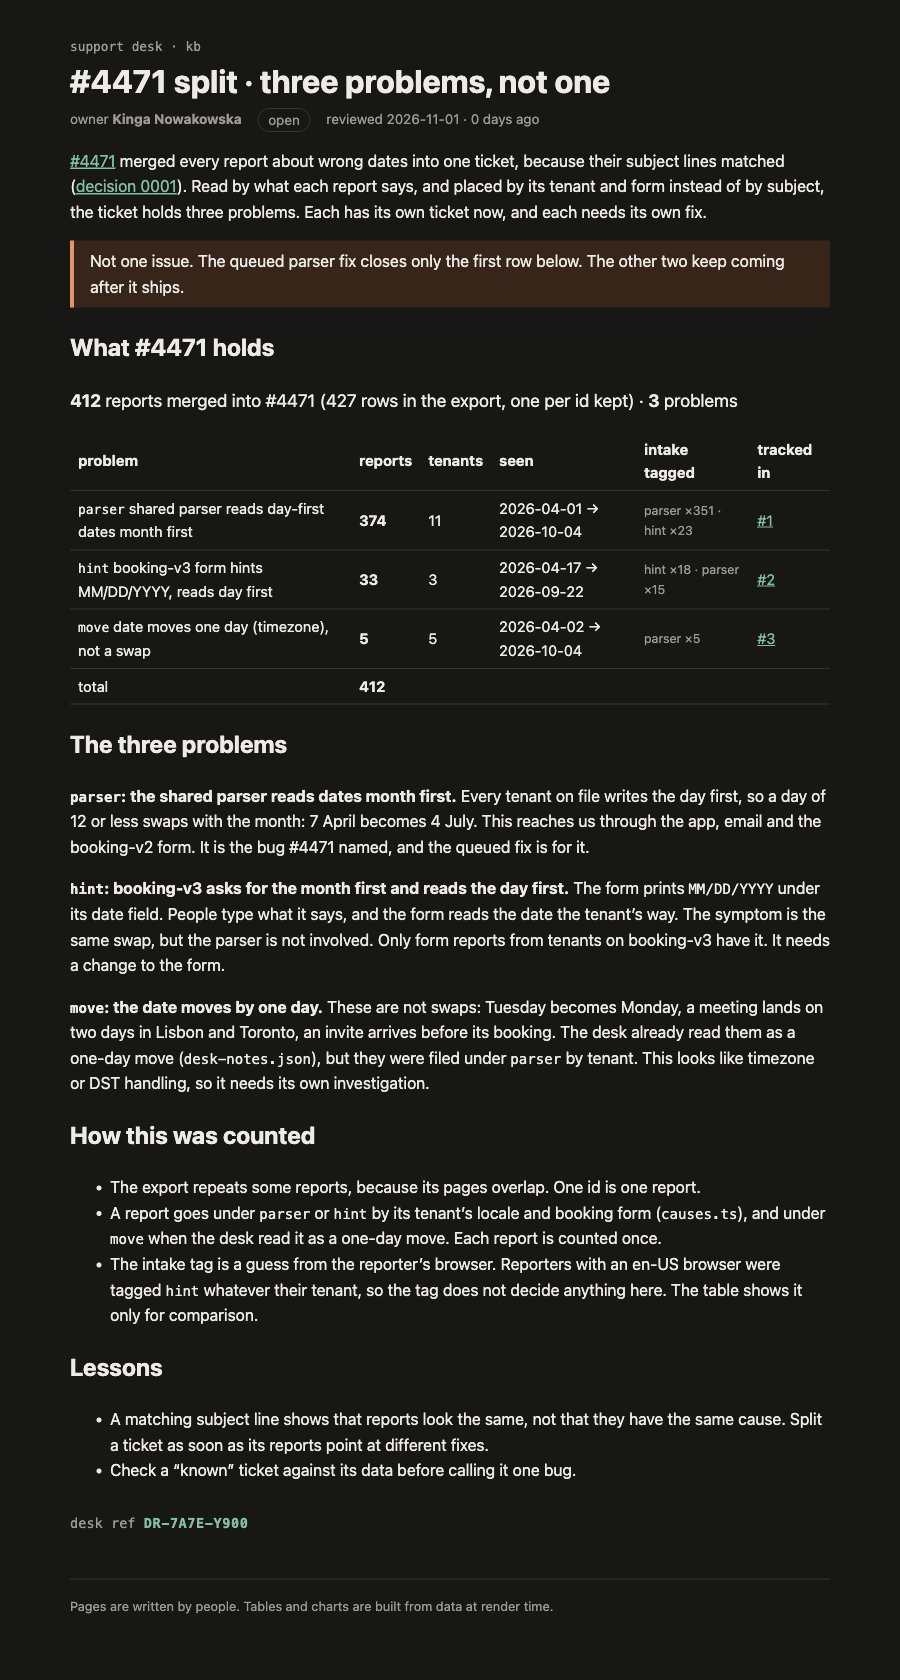
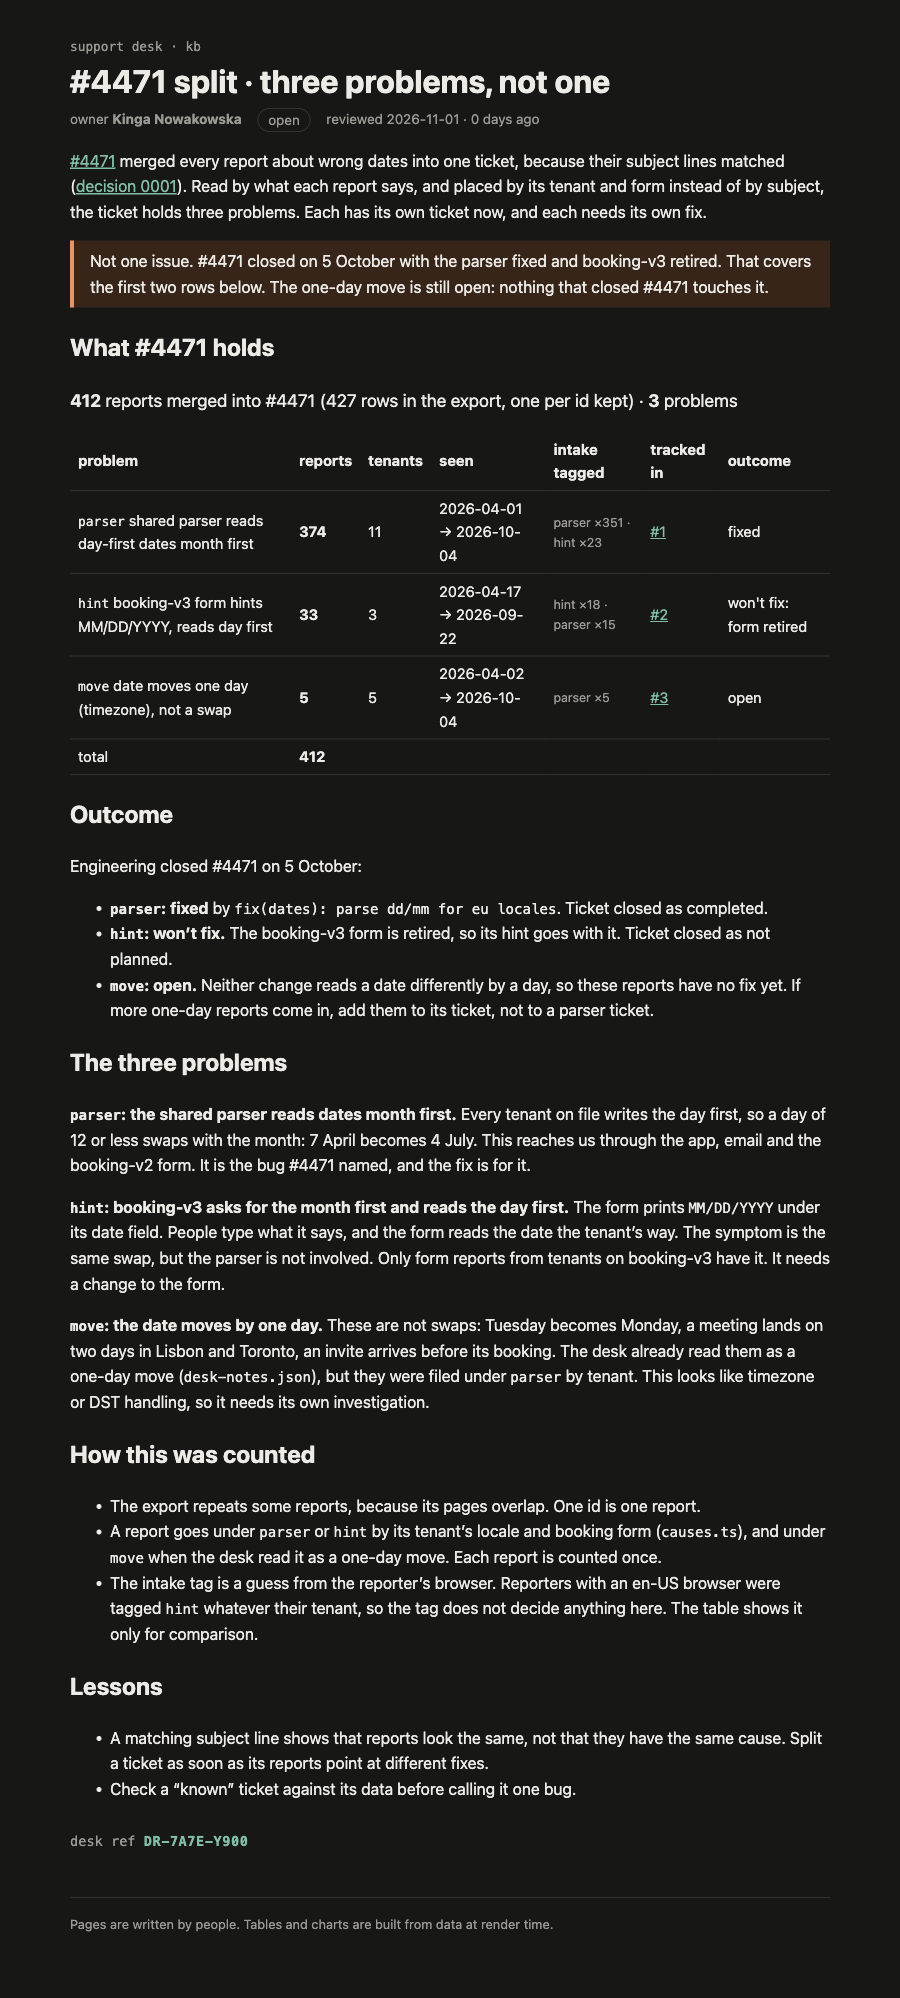
kb: record #4471 outcome (parser fixed, booking-v3 retired, one-day move open)

Changed region(s): [[0.0622, 0.0, 0.9333, 0.9286], [0.4044, 0.3405, 0.4356, 0.3714]]

diff --git a/rendered/4471-split.html b/rendered/4471-split.html
@@ -18,10 +18,11 @@
 </style></head><body><div style="display: contents"><!--[--><!--[0--><!--[--><!--[--><div class="kb svelte-e2jw2j"><header><a class="crumb svelte-e2jw2j" href="/kb">support desk · kb</a> <h1 class="svelte-e2jw2j">#4471 split · three problems, not one</h1> <p class="meta svelte-e2jw2j"><span>owner <b>Kinga Nowakowska</b></span> <span class="status open svelte-e2jw2j">open</span> <span class="svelte-e2jw2j">reviewed 2026-11-01 · 0 days ago</span></p></header> <!--[-1--><!--]--> <main><p><a href="/kb/incidents/4471">#4471</a> merged every report about wrong dates into one ticket, because their
 subject lines matched (<a href="/kb/decisions/0001-dedupe-by-subject">decision 0001</a>). Read by what each
 report says, and placed by its tenant and form instead of by subject, the ticket holds three
-problems. Each has its own ticket now, and each needs its own fix.</p> <aside class="warn svelte-17bri61"><!---->Not one issue. The queued parser fix closes only the first row below. The other two keep coming
-after it ships.<!----></aside><!----> <h2>What #4471 holds</h2> <p class="sum svelte-xskqqx"><strong>412</strong> reports merged into #4471 (427 rows in the export, one per id kept) · <strong>3</strong> problems</p> <table><thead><tr><th>problem</th><th>reports</th><th>tenants</th><th>seen</th><th>intake tagged</th><th>tracked in</th></tr></thead><tbody><!--[--><tr><td><code>parser</code> shared parser reads day-first dates month first</td><td><strong>374</strong></td><td>11</td><td>2026-04-01 → 2026-10-04</td><td class="tags svelte-xskqqx">parser ×351 · hint ×23</td><td><!--[0--><a href="https://github.com/kNowakowska/support-kb-4471/issues/1">#1</a><!--]--></td></tr><tr><td><code>hint</code> booking-v3 form hints MM/DD/YYYY, reads day first</td><td><strong>33</strong></td><td>3</td><td>2026-04-17 → 2026-09-22</td><td class="tags svelte-xskqqx">hint ×18 · parser ×15</td><td><!--[0--><a href="https://github.com/kNowakowska/support-kb-4471/issues/2">#2</a><!--]--></td></tr><tr><td><code>move</code> date moves one day (timezone), not a swap</td><td><strong>5</strong></td><td>5</td><td>2026-04-02 → 2026-10-04</td><td class="tags svelte-xskqqx">parser ×5</td><td><!--[0--><a href="https://github.com/kNowakowska/support-kb-4471/issues/3">#3</a><!--]--></td></tr><!--]--></tbody><tfoot><tr><td>total</td><td><strong>412</strong></td><td colspan="4"></td></tr></tfoot></table><!----> <h2>The three problems</h2> <p><strong><code>parser</code>: the shared parser reads dates month first.</strong> Every tenant on file writes the day
+problems. Each has its own ticket now, and each needs its own fix.</p> <aside class="warn svelte-17bri61"><!---->Not one issue. #4471 closed on 5 October with the parser fixed and booking-v3 retired. That
+covers the first two rows below. The one-day move is still open: nothing that closed #4471 touches it.<!----></aside><!----> <h2>What #4471 holds</h2> <p class="sum svelte-xskqqx"><strong>412</strong> reports merged into #4471 (427 rows in the export, one per id kept) · <strong>3</strong> problems</p> <table><thead><tr><th>problem</th><th>reports</th><th>tenants</th><th>seen</th><th>intake tagged</th><th>tracked in</th><th>outcome</th></tr></thead><tbody><!--[--><tr><td><code>parser</code> shared parser reads day-first dates month first</td><td><strong>374</strong></td><td>11</td><td>2026-04-01 → 2026-10-04</td><td class="tags svelte-xskqqx">parser ×351 · hint ×23</td><td><!--[0--><a href="https://github.com/kNowakowska/support-kb-4471/issues/1">#1</a><!--]--></td><td>fixed</td></tr><tr><td><code>hint</code> booking-v3 form hints MM/DD/YYYY, reads day first</td><td><strong>33</strong></td><td>3</td><td>2026-04-17 → 2026-09-22</td><td class="tags svelte-xskqqx">hint ×18 · parser ×15</td><td><!--[0--><a href="https://github.com/kNowakowska/support-kb-4471/issues/2">#2</a><!--]--></td><td>won't fix: form retired</td></tr><tr><td><code>move</code> date moves one day (timezone), not a swap</td><td><strong>5</strong></td><td>5</td><td>2026-04-02 → 2026-10-04</td><td class="tags svelte-xskqqx">parser ×5</td><td><!--[0--><a href="https://github.com/kNowakowska/support-kb-4471/issues/3">#3</a><!--]--></td><td>open</td></tr><!--]--></tbody><tfoot><tr><td>total</td><td><strong>412</strong></td><td colspan="5"></td></tr></tfoot></table><!----> <h2>Outcome</h2> <p>Engineering closed #4471 on 5 October:</p> <ul><li><strong><code>parser</code>: fixed</strong> by <code>fix(dates): parse dd/mm for eu locales</code>. Ticket closed as completed.</li> <li><strong><code>hint</code>: won’t fix.</strong> The booking-v3 form is retired, so its hint goes with it. Ticket closed as not planned.</li> <li><strong><code>move</code>: open.</strong> Neither change reads a date differently by a day, so these reports have no fix yet.
+If more one-day reports come in, add them to its ticket, not to a parser ticket.</li></ul> <h2>The three problems</h2> <p><strong><code>parser</code>: the shared parser reads dates month first.</strong> Every tenant on file writes the day
 first, so a day of 12 or less swaps with the month: 7 April becomes 4 July. This reaches us
-through the app, email and the booking-v2 form. It is the bug #4471 named, and the queued fix is for it.</p> <p><strong><code>hint</code>: booking-v3 asks for the month first and reads the day first.</strong> The form prints <code>MM/DD/YYYY</code> under its date field. People type what it says, and the form reads the date the
+through the app, email and the booking-v2 form. It is the bug #4471 named, and the fix is for it.</p> <p><strong><code>hint</code>: booking-v3 asks for the month first and reads the day first.</strong> The form prints <code>MM/DD/YYYY</code> under its date field. People type what it says, and the form reads the date the
 tenant’s way. The symptom is the same swap, but the parser is not involved. Only form reports from
 tenants on booking-v3 have it. It needs a change to the form.</p> <p><strong><code>move</code>: the date moves by one day.</strong> These are not swaps: Tuesday becomes Monday, a meeting
 lands on two days in Lisbon and Toronto, an invite arrives before its booking. The desk already

diff --git a/src/lib/kb/SplitTable.svelte b/src/lib/kb/SplitTable.svelte
@@ -6,7 +6,8 @@
   import { splitTicket, type Problem } from '#lib/kb/split';
 
   // issues: where each problem is now tracked, problem → issue url.
-  let { ticket, issues = {} }: { ticket: number; issues?: Partial<Record<Problem, string>> } = $props();
+  // outcome: what engineering decided per problem, problem → words.
+  let { ticket, issues = {}, outcome = {} }: { ticket: number; issues?: Partial<Record<Problem, string>>; outcome?: Partial<Record<Problem, string>> } = $props();
 
   const LABEL: Record<Problem, string> = {
     parser: 'shared parser reads day-first dates month first',
@@ -32,7 +33,7 @@
 
 <table>
   <thead>
-    <tr><th>problem</th><th>reports</th><th>tenants</th><th>seen</th><th>intake tagged</th><th>tracked in</th></tr>
+    <tr><th>problem</th><th>reports</th><th>tenants</th><th>seen</th><th>intake tagged</th><th>tracked in</th><th>outcome</th></tr>
   </thead>
   <tbody>
     {#each split.groups as g (g.problem)}
@@ -43,11 +44,12 @@
         <td>{g.firstSeen} → {g.lastSeen}</td>
         <td class="tags">{tags(g.taggedAs)}</td>
         <td>{#if issues[g.problem]}<a href={issues[g.problem]}>{issueNo(issues[g.problem]!)}</a>{:else}<span class="none">no ticket</span>{/if}</td>
+        <td>{outcome[g.problem] ?? 'open'}</td>
       </tr>
     {/each}
   </tbody>
   <tfoot>
-    <tr><td>total</td><td><strong>{total}</strong></td><td colspan="4"></td></tr>
+    <tr><td>total</td><td><strong>{total}</strong></td><td colspan="5"></td></tr>
   </tfoot>
 </table>
 
